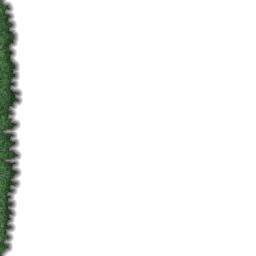
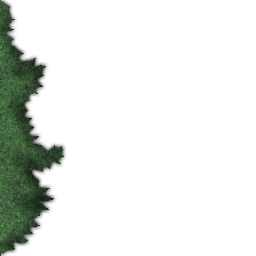
more work on outdoor textures

Changed region(s): [[0.0, 0.0, 0.2812, 1.0]]

diff --git a/scourge/src/render/map.cpp b/scourge/src/render/map.cpp
@@ -4656,7 +4656,20 @@ void Map::initOutdoorsGroundTexture() {
 				bool s = isRockTexture( x, y + OUTDOOR_FLOOR_TEX_SIZE );
 				bool n = isRockTexture( x, y - OUTDOOR_FLOOR_TEX_SIZE );
 				
-				if( !w && !s ) {
+				if( !w && !s && !e ) {
+					angle = 0;
+					ref = WallTheme::OUTDOOR_THEME_REF_GRASS_TIP; 
+				} else if( !e && !s && !n ) {
+					angle = 90;
+					ref = WallTheme::OUTDOOR_THEME_REF_GRASS_TIP;
+				} else if( !e && !n && !w ) {
+					angle = 180;
+					ref = WallTheme::OUTDOOR_THEME_REF_GRASS_TIP;
+				} else if( !w && !n && !s ) {
+					angle = 270;
+					ref = WallTheme::OUTDOOR_THEME_REF_GRASS_TIP;				
+				
+				} else if( !w && !s ) {
 					angle = 0;
 					ref = WallTheme::OUTDOOR_THEME_REF_GRASS_CORNER; 
 				} else if( !e && !s ) {

diff --git a/scourge/src/render/shapes.cpp b/scourge/src/render/shapes.cpp
@@ -44,7 +44,7 @@ char WallTheme::themeRefName[THEME_REF_COUNT][40] = {
 };
 
 char WallTheme::outdoorThemeRefName[OUTDOOR_THEME_REF_COUNT][40] = {
-	"grass", "street", "street_cross", "street_end", "trail", "trail_turn", "trail_end", "water", "rock", "grass_edge", "grass_corner"
+	"grass", "street", "street_cross", "street_end", "trail", "trail_turn", "trail_end", "water", "rock", "grass_edge", "grass_corner", "grass_tip"
 };
 
 WallTheme::WallTheme( char const* name, Shapes *shapePal ) 

diff --git a/scourge/src/render/shapes.h b/scourge/src/render/shapes.h
@@ -119,6 +119,7 @@ class WallTheme {
 		OUTDOOR_THEME_REF_ROCK,
 		OUTDOOR_THEME_REF_GRASS_EDGE,
 		OUTDOOR_THEME_REF_GRASS_CORNER,
+		OUTDOOR_THEME_REF_GRASS_TIP,
 
     // must be the last one
     OUTDOOR_THEME_REF_COUNT
